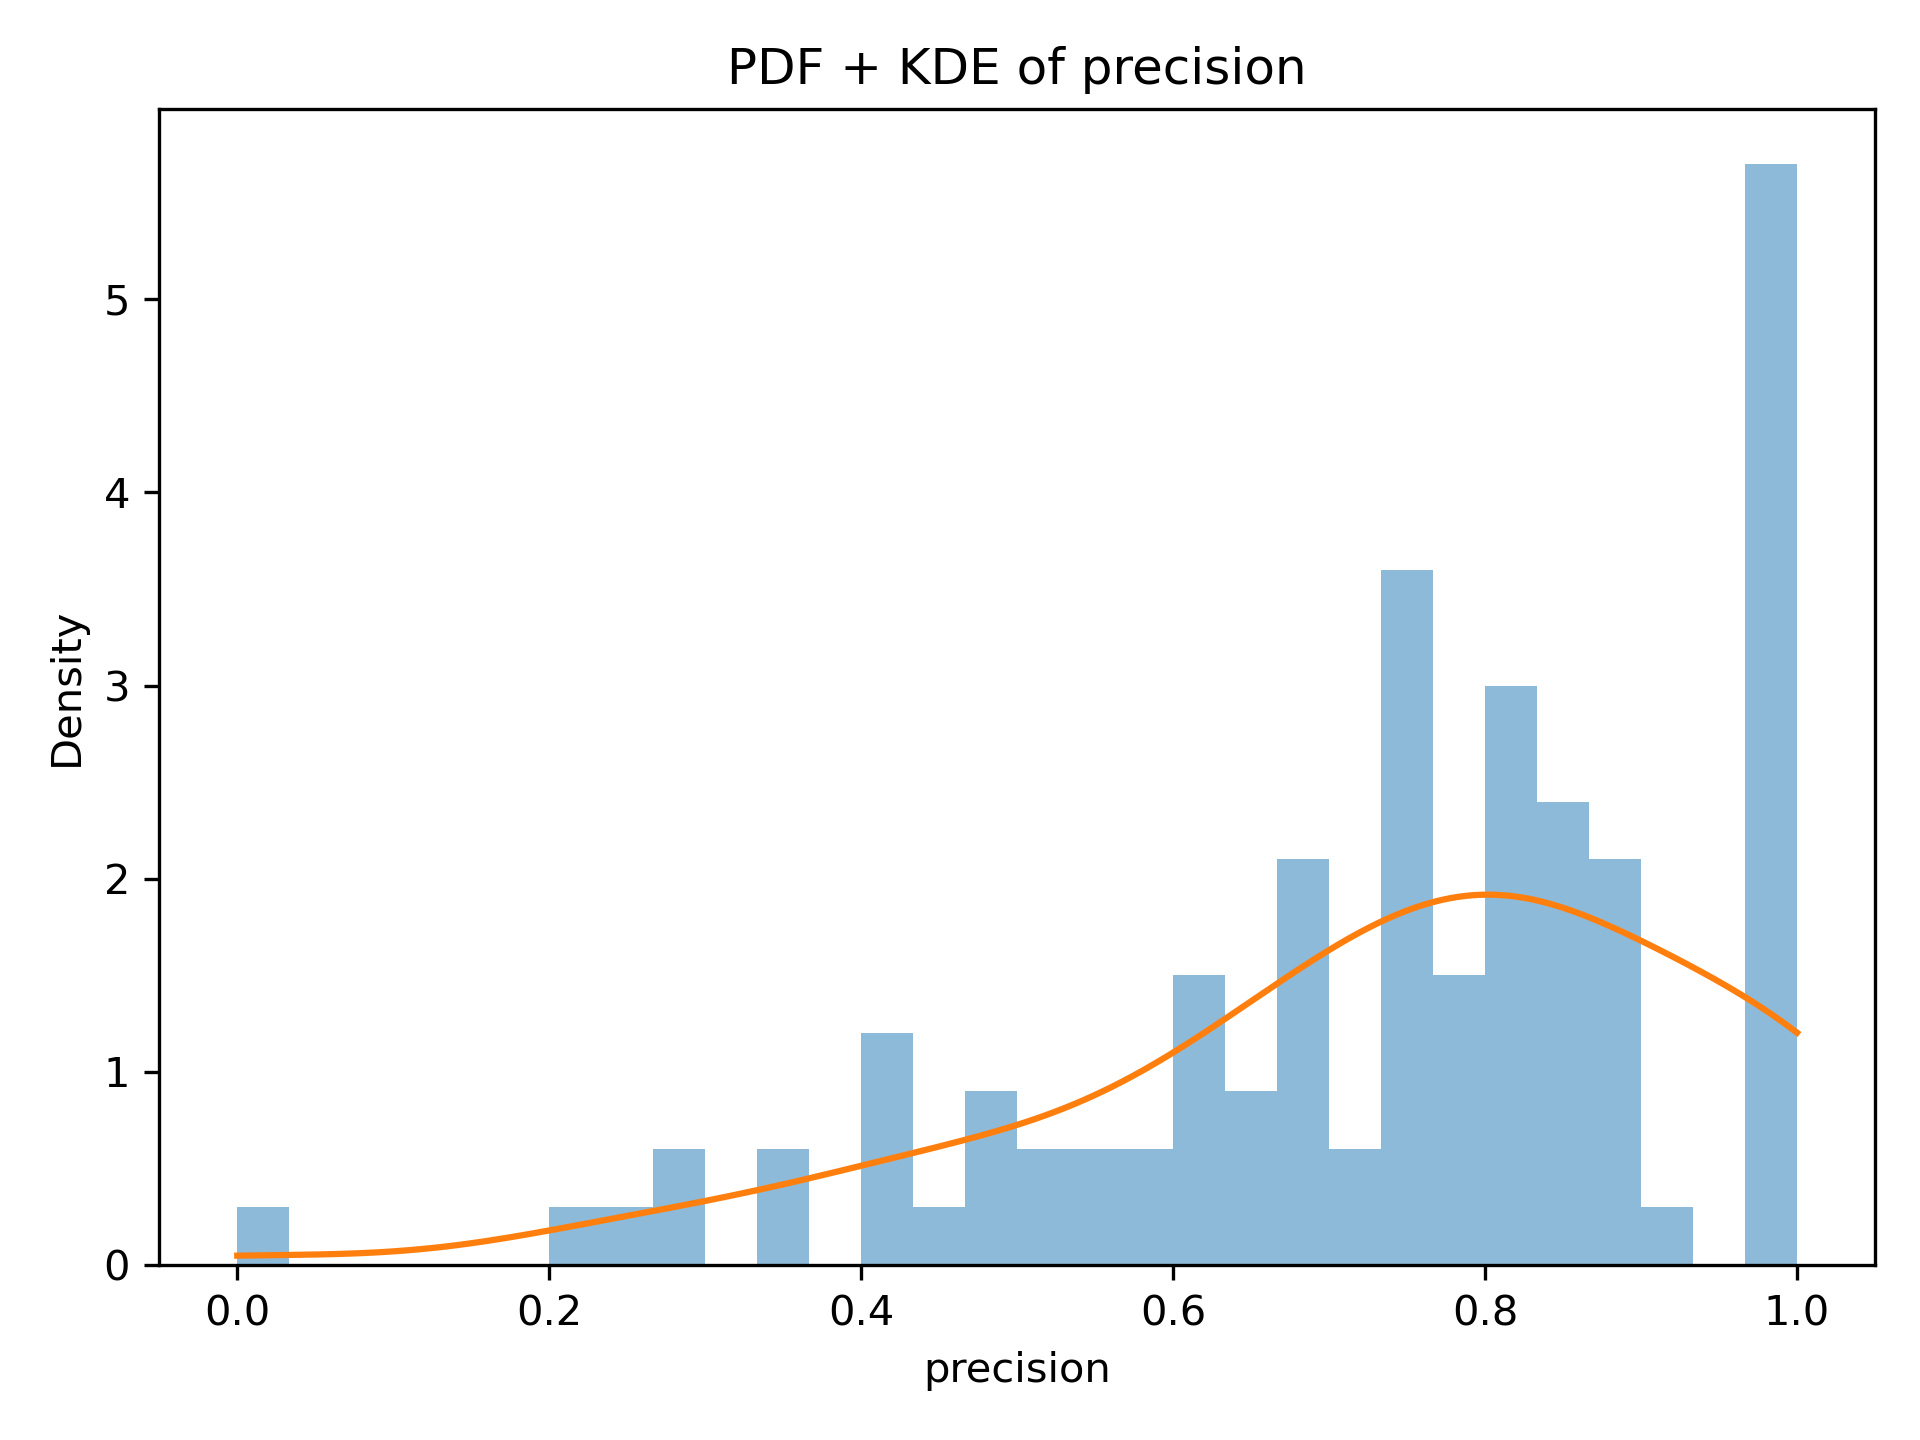
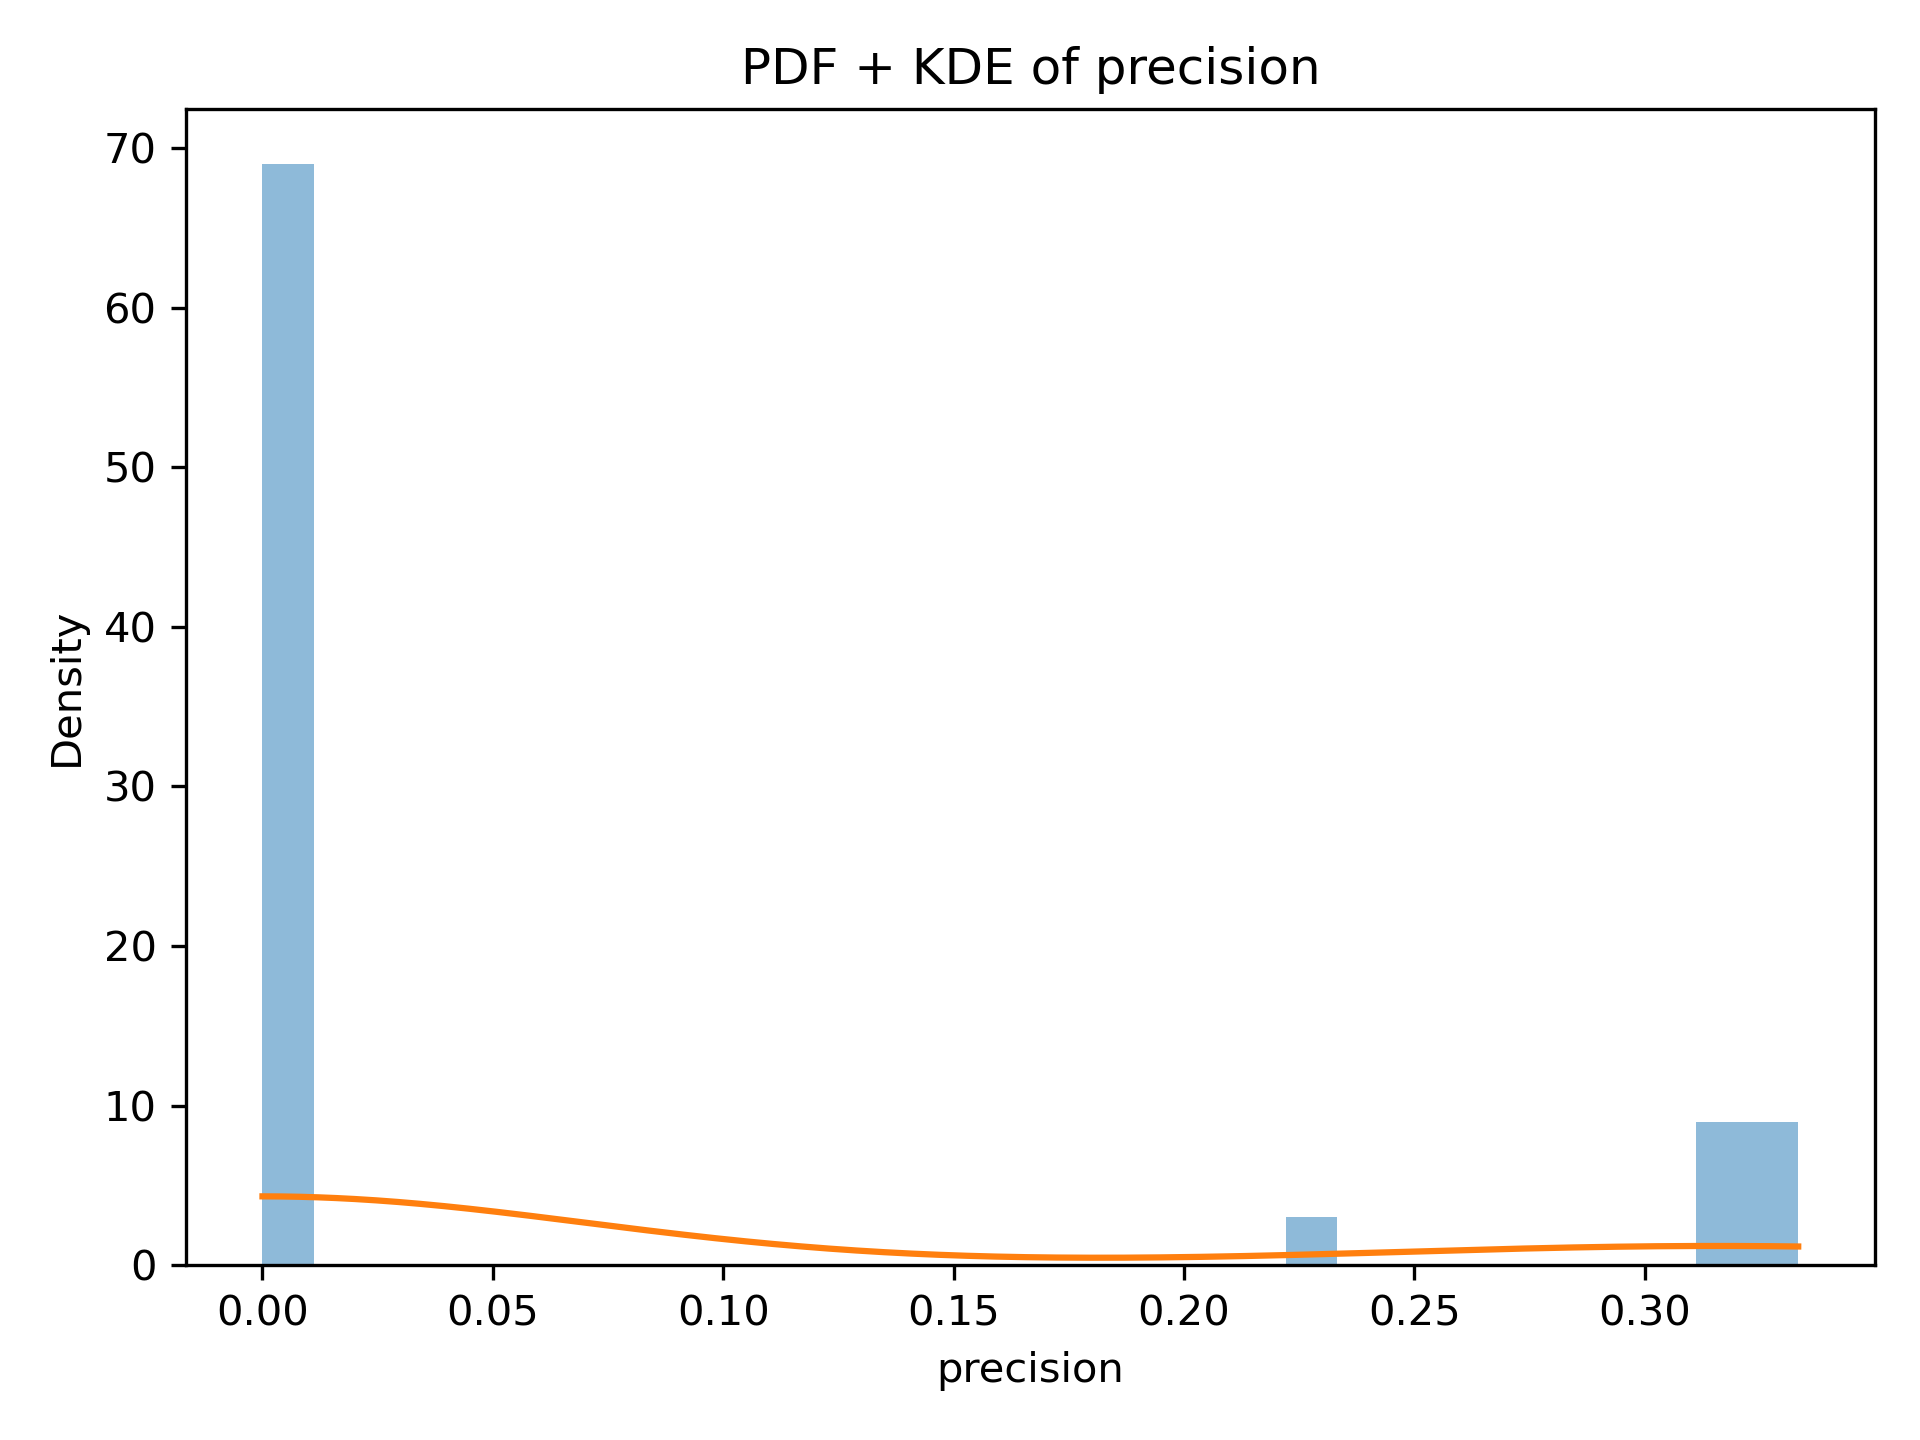
aggiunti i confronti per Irius e la generazione delle statistiche di conseguenza

diff --git a/IriusRisk/Wordpress/confronto_Irius.py b/IriusRisk/Wordpress/confronto_Irius.py
@@ -1,0 +1,198 @@
+import os
+import csv
+import pprint
+from typing import Set, Tuple, List, Dict, Any
+
+
+MANUAL_DIR = "Manual"
+LLM_DIR = "LLM-Based-TM"
+OUTPUT_FILE = "dati_Irius.csv"
+THREAT_COLUMN = "Threat"
+COMPONENT_COLUMN = "Component"
+
+
+def load_threats_from_csv(
+    path: str,
+    threat_column: str = THREAT_COLUMN,
+    component_column: str = COMPONENT_COLUMN,
+) -> Set[Tuple[str, str]]:
+    threats: Set[Tuple[str, str]] = set()
+
+    with open(path, newline="", encoding="utf-8") as f:
+        reader = csv.DictReader(f)
+        fieldnames = reader.fieldnames or []
+
+        missing_cols = [
+            col for col in (component_column, threat_column) if col not in fieldnames
+        ]
+        if missing_cols:
+            raise ValueError(
+                f"Nel file '{path}' mancano le colonne {missing_cols}. "
+                f"Colonne trovate: {fieldnames}"
+            )
+
+        for row in reader:
+            comp = row.get(component_column, "")
+            thr = row.get(threat_column, "")
+            if comp is None or thr is None:
+                continue
+
+            comp_norm = comp.strip().lower()
+            thr_norm = thr.strip().lower()
+
+            if comp_norm and thr_norm:
+                threats.add((comp_norm, thr_norm))
+
+    return threats
+
+
+def find_reference_tm(manual_dir: str = MANUAL_DIR) -> str:
+    if not os.path.isdir(manual_dir):
+        raise FileNotFoundError(f"La cartella '{manual_dir}' non esiste.")
+
+    candidate_files: List[str] = []
+    for fname in os.listdir(manual_dir):
+        if fname.lower().endswith("human.csv"):
+            candidate_files.append(os.path.join(manual_dir, fname))
+
+    if not candidate_files:
+        raise FileNotFoundError(
+            f"Nella cartella '{manual_dir}' non è stato trovato un file '*human.csv'."
+        )
+    if len(candidate_files) > 1:
+        raise RuntimeError(
+            "Trovati più file '*human.csv':\n" + "\n".join(candidate_files)
+        )
+
+    return candidate_files[0]
+
+
+def find_generated_tms(llm_dir: str = LLM_DIR) -> List[str]:
+    if not os.path.isdir(llm_dir):
+        raise FileNotFoundError(f"La cartella '{llm_dir}' non esiste.")
+
+    files = []
+    for fname in os.listdir(llm_dir):
+        if fname.lower().endswith(".csv") and not fname.lower().endswith("human.csv"):
+            files.append(os.path.join(llm_dir, fname))
+
+    if not files:
+        raise FileNotFoundError(
+            f"Nella cartella '{llm_dir}' non è stato trovato nessun generated TM."
+        )
+
+    return sorted(files)
+
+
+def safe_ratio(num: int, den: int) -> float:
+    return (num / den) if den != 0 else 0.0
+
+
+def f1_score(precision: float, recall: float) -> float:
+    if precision == 0.0 and recall == 0.0:
+        return 0.0
+    return 2 * (precision * recall) / (precision + recall)
+
+
+def main():
+    reference_path = find_reference_tm(MANUAL_DIR)
+    print(f"[INFO] Reference TM: {reference_path}")
+    ref_threats = load_threats_from_csv(reference_path)
+
+    generated_files = find_generated_tms(LLM_DIR)
+    print(f"[INFO] Trovati {len(generated_files)} generated TM.")
+
+    per_file_metrics: List[Dict[str, Any]] = []
+    results_rows = []
+
+    for idx, gen_path in enumerate(generated_files, start=1):
+        gen_threats = load_threats_from_csv(gen_path)
+
+        tp = len(gen_threats & ref_threats)
+        fp = len(gen_threats - ref_threats)
+        fn = len(ref_threats - gen_threats)
+        support = tp + fn
+
+        recall = safe_ratio(tp, tp + fn)
+        precision = safe_ratio(tp, tp + fp)
+        f1 = f1_score(precision, recall)
+        accuracy = safe_ratio(tp, tp + fp + fn)
+
+        per_file_metrics.append({
+            "tp": tp, "fp": fp, "fn": fn,
+            "support": support,
+            "recall": recall,
+            "precision": precision,
+            "f1": f1,
+            "accuracy": accuracy,
+        })
+
+        results_rows.append({
+            "Index": idx,
+            "FILE": os.path.basename(gen_path),
+            "TP": tp,
+            "FP": fp,
+            "FN": fn,
+            "support": support,
+            "recall": f"{recall:.4f}",
+            "precision": f"{precision:.4f}",
+            "F1-score": f"{f1:.4f}",
+            "accuracy": f"{accuracy:.4f}",
+        })
+
+        print(
+            f"[INFO] {idx}. {os.path.basename(gen_path)} -> "
+            f"TP={tp}, FP={fp}, FN={fn}, support={support}, "
+            f"recall={recall:.4f}, precision={precision:.4f}, "
+            f"F1={f1:.4f}, accuracy={accuracy:.4f}"
+        )
+
+    # ---------------------------
+    # GLOBAL METRICS (SOLO OUTPUT)
+    # ---------------------------
+    print("\n[GLOBAL METRICS]")
+
+    n = len(per_file_metrics)
+
+    macro_precision = sum(m["precision"] for m in per_file_metrics) / n
+    macro_recall = sum(m["recall"] for m in per_file_metrics) / n
+    macro_f1 = sum(m["f1"] for m in per_file_metrics) / n
+
+    total_support = sum(m["support"] for m in per_file_metrics)
+    weighted_f1 = (
+        sum(m["f1"] * m["support"] for m in per_file_metrics) / total_support
+        if total_support > 0 else 0.0
+    )
+
+    total_tp = sum(m["tp"] for m in per_file_metrics)
+    total_fp = sum(m["fp"] for m in per_file_metrics)
+    total_fn = sum(m["fn"] for m in per_file_metrics)
+
+    micro_precision = safe_ratio(total_tp, total_tp + total_fp)
+    micro_recall = safe_ratio(total_tp, total_tp + total_fn)
+    micro_f1 = f1_score(micro_precision, micro_recall)
+    micro_accuracy = safe_ratio(total_tp, total_tp + total_fp + total_fn)
+
+    print(f"Macro Precision: {macro_precision:.4f}")
+    print(f"Macro Recall   : {macro_recall:.4f}")
+    print(f"Macro F1       : {macro_f1:.4f}")
+    print(f"Weighted F1    : {weighted_f1:.4f}")
+    print(f"Micro Precision: {micro_precision:.4f}")
+    print(f"Micro Recall   : {micro_recall:.4f}")
+    print(f"Micro F1       : {micro_f1:.4f}")
+    print(f"Accuracy       : {micro_accuracy:.4f}")
+
+    with open(OUTPUT_FILE, "w", newline="", encoding="utf-8") as f:
+        writer = csv.DictWriter(
+            f,
+            fieldnames=["Index", "FILE", "TP", "FP", "FN",
+                        "support", "recall", "precision", "F1-score", "accuracy"]
+        )
+        writer.writeheader()
+        writer.writerows(results_rows)
+
+    print(f"\n[OK] File CSV scritto in: {OUTPUT_FILE}")
+
+
+if __name__ == "__main__":
+    main()

diff --git a/analyze_threat_metrics.py b/analyze_threat_metrics.py
@@ -3,7 +3,7 @@ import pandas as pd
 import numpy as np
 import matplotlib.pyplot as plt
 
-CSV_PATH = "dati/tmv3.csv"   # cambia se necessario
+CSV_PATH = "dati/dati_irius.csv"   # cambia se necessario
 #CSV_PATH = "dati/threat_metrics.csv"   # cambia se necessario
 IMG_DIR = "imgs"
 RESULTS_DIR = "results"
